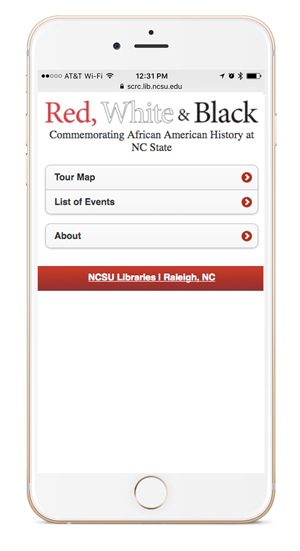
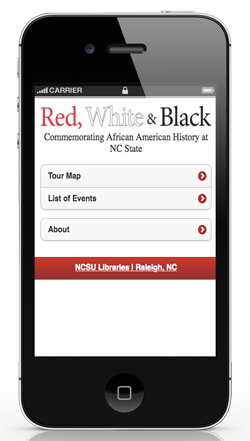
updating with recommended changes

diff --git a/_posts/2017-02-17-Code4lib2017.md b/_posts/2017-02-17-Code4lib2017.md
@@ -190,6 +190,14 @@ March 8, 2017 | Code4Lib | Los Angeles, CA
 <section data-markdown>
 
 # lunr.js
+Like a client-side Solr
+
+</section>
+
+<section data-markdown>
+
+### lunr.js
+![Old-RWB-Admin](/images/c4l17/new-admin.png)
 
 </section>
 
@@ -221,15 +229,11 @@ March 8, 2017 | Code4Lib | Los Angeles, CA
 
 <section data-markdown>
 
-#### Original Mobile
-![Build Process Diagram](/images/c4l17/mobile-old.png)
+#### Mobile Before and After
+![Build Process Diagram](/images/c4l17/mobile.png)
 </section>
 
-<section data-markdown>
 
-#### New Mobile
-![Build Process Diagram](/images/c4l17/new-mobile.png)
-</section>
 <section data-markdown>
 
 #Next Steps
